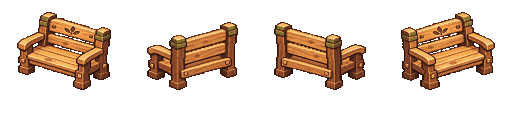
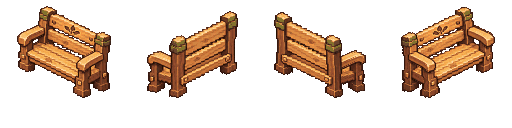
Align each bench back and arm with the two ranch road axes

diff --git a/PROGRESS.md b/PROGRESS.md
@@ -1,3 +1,12 @@
+# 1.25.63　牧場の道と装飾の角度（ベンチの原画を保存）
+
+- 対象バージョン　1.25.62 → 1.25.63。開始時のmainは `7a09682`。
+- 保存先　`art/garden-angle-1.25.63` の `assets/town-buildings/`、`PROGRESS.md`。配布物と確認画像は `releases/1.25.63/`。
+- 完了事項　木のベンチ4方向の背板とひじ掛けを、道の横2・縦1の傾きに合わせた。元の配色と各方向の彫刻を使用。
+- 確認結果　背板の外縁とひじ掛けの画素を測定。4方向とも傾きの中央値は左右の道と同じ±0.5。前版の背板は絶対値0.27〜0.31。各原画は128px四方に収まる。
+- 残作業　花壇の杭を補正し、敷物・街灯を照合。ベンチの足元の基準を通常版と軽量版に反映して動作確認・公開。
+- 次の操作　花壇の上向きと右向きの左右の杭をそろえる。
+
 # 1.25.62　牧場の装飾4種の描き直し（公開済み）
 
 - 対象バージョン　1.25.61 → 1.25.62。開始時のmainは `25a857b`。
